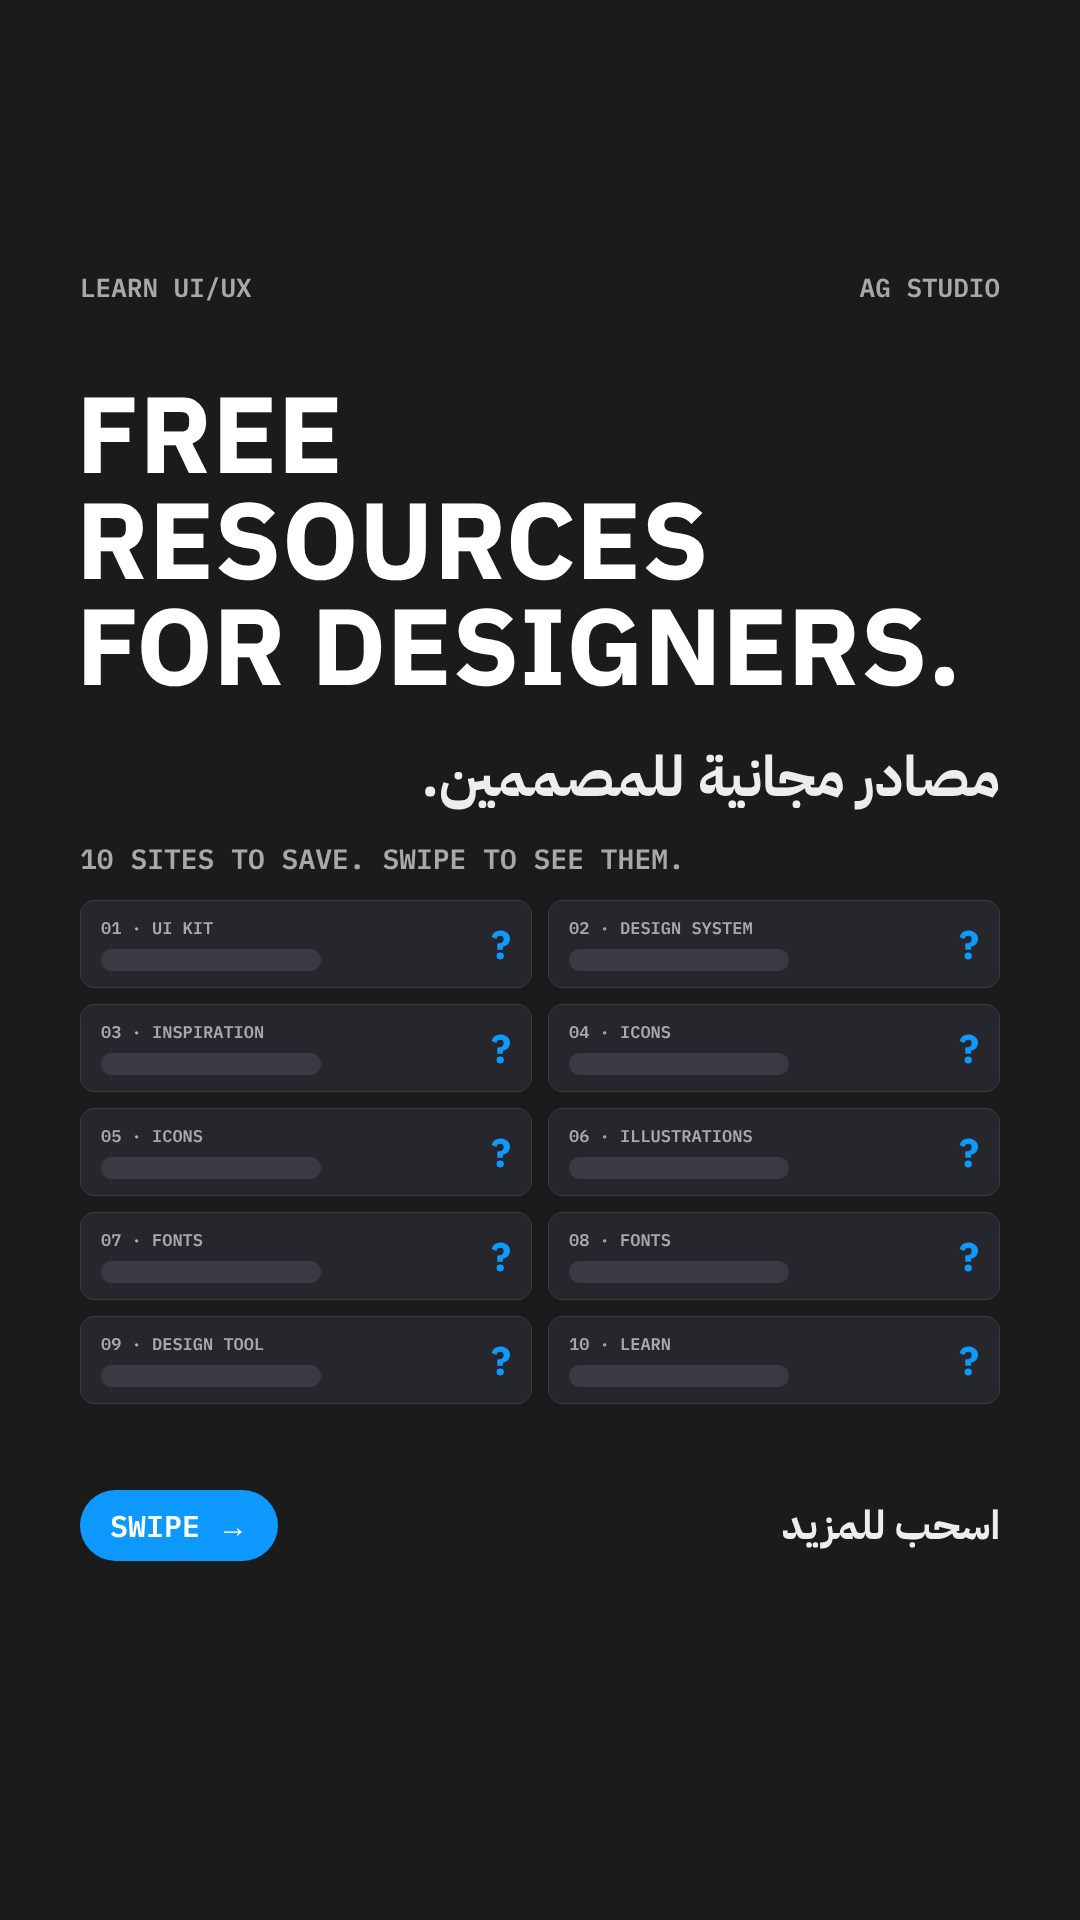
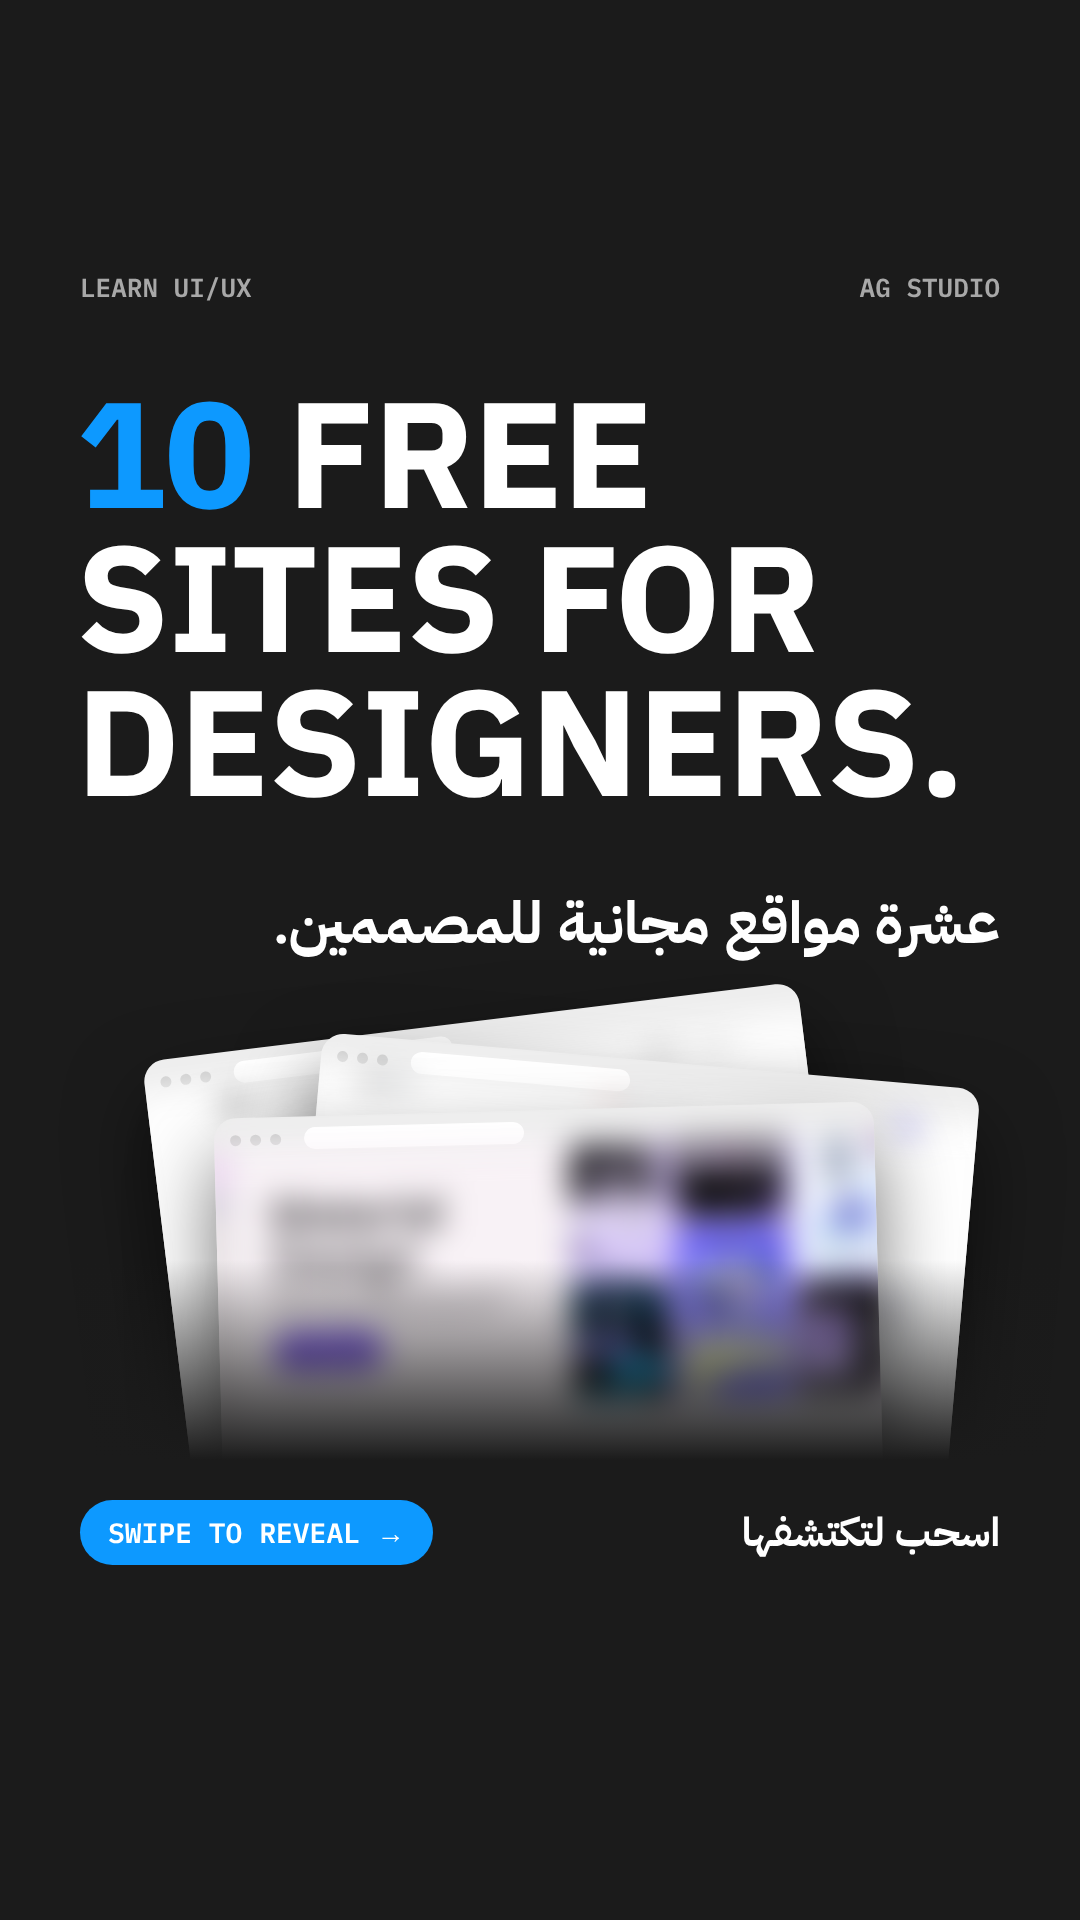
Free resources : couvertures teaser refaites (captures floutées en pile)
Claude-Session: https://claude.ai/code/session_01FBPTB3jeqhR1KyoC7UCUXC

Changed region(s): [[0.0611, 0.1875, 0.9167, 0.8125], [0.6722, 0.7812, 0.9167, 0.8125]]

diff --git a/carousels/resources/cover-carousel.html b/carousels/resources/cover-carousel.html
@@ -1,0 +1,22 @@
+<!doctype html><html><head><meta charset="utf-8"><style>
+@font-face{font-family:Plex;src:url(../../node_modules/@fontsource/ibm-plex-sans/files/ibm-plex-sans-latin-700-normal.woff2);font-weight:700}
+@font-face{font-family:Mono;src:url(../../node_modules/@fontsource/ibm-plex-mono/files/ibm-plex-mono-latin-600-normal.woff2);font-weight:600}
+@font-face{font-family:Ar;src:url(../../node_modules/@fontsource/ibm-plex-sans-arabic/files/ibm-plex-sans-arabic-arabic-700-normal.woff2);font-weight:700;unicode-range:U+0600-06FF,U+0750-077F,U+FB50-FDFF,U+FE70-FEFF,U+200C-200F}
+*{box-sizing:border-box;margin:0;padding:0} body{background:#000}
+.s{position:relative;overflow:hidden;background:#1B1B1B;font-family:Plex;color:#fff}
+.h{font-weight:700;line-height:.96;letter-spacing:-.01em}
+.ar{font-family:Ar;font-weight:700;direction:rtl}
+.mono{font:600 26px Mono;color:#A8A8A8}
+.win{position:absolute;background:#EDEDED;border-radius:22px;overflow:hidden;box-shadow:0 40px 80px rgba(0,0,0,.55)}
+.win .bar{height:44px;display:flex;align-items:center;gap:9px;padding:0 16px}
+.win .dot{width:11px;height:11px;border-radius:6px;background:#C9C9C9}
+.win .url{margin-left:14px;width:220px;height:22px;border-radius:11px;background:#fff}
+.win img{display:block;width:100%;filter:blur(15px) saturate(1.05);transform:scale(1.06)}
+.pill{display:inline-block;background:#0D99FF;color:#fff;font:600 28px Mono;padding:14px 28px;border-radius:40px}
+</style></head><body><div class="s" id="c" style="width:1080px;height:1920px">
+ <div class="mono" style="position:absolute;top:270px;left:80px">LEARN UI/UX</div><div class="mono" style="position:absolute;top:270px;right:80px">AG STUDIO</div>
+ <div class="h" style="position:absolute;top:380px;left:76px;font-size:150px"><span style="color:#0D99FF">10</span> FREE<br>SITES FOR<br>DESIGNERS.</div>
+ <div class="ar" style="position:absolute;top:880px;right:80px;font-size:58px">عشرة مواقع مجانية للمصممين.</div>
+ <div style="position:absolute;top:960px;left:0;width:1080px;height:500px;overflow:hidden"><div class="win" style="left:170px;top:60px;width:660px;transform:rotate(-7deg);z-index:1"><div class="bar"><span class="dot"></span><span class="dot"></span><span class="dot"></span><span class="url"></span></div><img src="../../resources-sites/shots/mobbin.jpg"></div><div class="win" style="left:300px;top:100px;width:660px;transform:rotate(5deg);z-index:2"><div class="bar"><span class="dot"></span><span class="dot"></span><span class="dot"></span><span class="url"></span></div><img src="../../resources-sites/shots/undraw.jpg"></div><div class="win" style="left:220px;top:150px;width:660px;transform:rotate(-1.5deg);z-index:3"><div class="bar"><span class="dot"></span><span class="dot"></span><span class="dot"></span><span class="url"></span></div><img src="../../resources-sites/shots/material.jpg"></div><div style="position:absolute;left:0;right:0;bottom:0;height:200px;background:linear-gradient(rgba(27,27,27,0),#1B1B1B);z-index:4"></div></div>
+ <div style="position:absolute;top:1500px;left:80px;right:80px;display:flex;justify-content:space-between;align-items:center;z-index:5"><span class="pill">SWIPE TO REVEAL →</span><span class="ar" style="font-size:40px">اسحب لتكتشفها</span></div>
+</div></body></html>

diff --git a/carousels/resources/cover-short.html b/carousels/resources/cover-short.html
@@ -1,0 +1,22 @@
+<!doctype html><html><head><meta charset="utf-8"><style>
+@font-face{font-family:Plex;src:url(../../node_modules/@fontsource/ibm-plex-sans/files/ibm-plex-sans-latin-700-normal.woff2);font-weight:700}
+@font-face{font-family:Mono;src:url(../../node_modules/@fontsource/ibm-plex-mono/files/ibm-plex-mono-latin-600-normal.woff2);font-weight:600}
+@font-face{font-family:Ar;src:url(../../node_modules/@fontsource/ibm-plex-sans-arabic/files/ibm-plex-sans-arabic-arabic-700-normal.woff2);font-weight:700;unicode-range:U+0600-06FF,U+0750-077F,U+FB50-FDFF,U+FE70-FEFF,U+200C-200F}
+*{box-sizing:border-box;margin:0;padding:0} body{background:#000}
+.s{position:relative;overflow:hidden;background:#1B1B1B;font-family:Plex;color:#fff}
+.h{font-weight:700;line-height:.96;letter-spacing:-.01em}
+.ar{font-family:Ar;font-weight:700;direction:rtl}
+.mono{font:600 26px Mono;color:#A8A8A8}
+.win{position:absolute;background:#EDEDED;border-radius:22px;overflow:hidden;box-shadow:0 40px 80px rgba(0,0,0,.55)}
+.win .bar{height:44px;display:flex;align-items:center;gap:9px;padding:0 16px}
+.win .dot{width:11px;height:11px;border-radius:6px;background:#C9C9C9}
+.win .url{margin-left:14px;width:220px;height:22px;border-radius:11px;background:#fff}
+.win img{display:block;width:100%;filter:blur(15px) saturate(1.05);transform:scale(1.06)}
+.pill{display:inline-block;background:#0D99FF;color:#fff;font:600 28px Mono;padding:14px 28px;border-radius:40px}
+</style></head><body><div class="s" id="c" style="width:1080px;height:1920px">
+ <div class="mono" style="position:absolute;top:270px;left:80px">LEARN UI/UX</div><div class="mono" style="position:absolute;top:270px;right:80px">AG STUDIO</div>
+ <div class="h" style="position:absolute;top:380px;left:76px;font-size:150px"><span style="color:#0D99FF">10</span> FREE<br>SITES FOR<br>DESIGNERS.</div>
+ <div class="ar" style="position:absolute;top:880px;right:80px;font-size:58px">عشرة مواقع مجانية للمصممين.</div>
+ <div style="position:absolute;top:960px;left:0;width:1080px;height:500px;overflow:hidden"><div class="win" style="left:170px;top:60px;width:660px;transform:rotate(-7deg);z-index:1"><div class="bar"><span class="dot"></span><span class="dot"></span><span class="dot"></span><span class="url"></span></div><img src="../../resources-sites/shots/mobbin.jpg"></div><div class="win" style="left:300px;top:100px;width:660px;transform:rotate(5deg);z-index:2"><div class="bar"><span class="dot"></span><span class="dot"></span><span class="dot"></span><span class="url"></span></div><img src="../../resources-sites/shots/undraw.jpg"></div><div class="win" style="left:220px;top:150px;width:660px;transform:rotate(-1.5deg);z-index:3"><div class="bar"><span class="dot"></span><span class="dot"></span><span class="dot"></span><span class="url"></span></div><img src="../../resources-sites/shots/material.jpg"></div><div style="position:absolute;left:0;right:0;bottom:0;height:200px;background:linear-gradient(rgba(27,27,27,0),#1B1B1B);z-index:4"></div></div>
+ 
+</div></body></html>

diff --git a/carousels/resources/cover-thumb.html b/carousels/resources/cover-thumb.html
@@ -1,0 +1,20 @@
+<!doctype html><html><head><meta charset="utf-8"><style>
+@font-face{font-family:Plex;src:url(../../node_modules/@fontsource/ibm-plex-sans/files/ibm-plex-sans-latin-700-normal.woff2);font-weight:700}
+@font-face{font-family:Mono;src:url(../../node_modules/@fontsource/ibm-plex-mono/files/ibm-plex-mono-latin-600-normal.woff2);font-weight:600}
+@font-face{font-family:Ar;src:url(../../node_modules/@fontsource/ibm-plex-sans-arabic/files/ibm-plex-sans-arabic-arabic-700-normal.woff2);font-weight:700;unicode-range:U+0600-06FF,U+0750-077F,U+FB50-FDFF,U+FE70-FEFF,U+200C-200F}
+*{box-sizing:border-box;margin:0;padding:0} body{background:#000}
+.s{position:relative;overflow:hidden;background:#1B1B1B;font-family:Plex;color:#fff}
+.h{font-weight:700;line-height:.96;letter-spacing:-.01em}
+.ar{font-family:Ar;font-weight:700;direction:rtl}
+.mono{font:600 26px Mono;color:#A8A8A8}
+.win{position:absolute;background:#EDEDED;border-radius:22px;overflow:hidden;box-shadow:0 40px 80px rgba(0,0,0,.55)}
+.win .bar{height:44px;display:flex;align-items:center;gap:9px;padding:0 16px}
+.win .dot{width:11px;height:11px;border-radius:6px;background:#C9C9C9}
+.win .url{margin-left:14px;width:220px;height:22px;border-radius:11px;background:#fff}
+.win img{display:block;width:100%;filter:blur(15px) saturate(1.05);transform:scale(1.06)}
+.pill{display:inline-block;background:#0D99FF;color:#fff;font:600 28px Mono;padding:14px 28px;border-radius:40px}
+</style></head><body><div class="s" id="c" style="width:1280px;height:720px">
+ <div class="h" style="position:absolute;top:150px;left:70px;font-size:100px;z-index:5"><span style="color:#0D99FF">18</span> FREE<br>SITES FOR<br>DESIGNERS.</div>
+ <div class="ar" style="position:absolute;top:500px;left:70px;width:620px;text-align:right;font-size:44px">مواقع مجانية للمصممين</div>
+ <div class="win" style="left:760px;top:110px;width:470px;transform:rotate(-7deg);z-index:1"><div class="bar"><span class="dot"></span><span class="dot"></span><span class="dot"></span><span class="url"></span></div><img src="../../resources-sites/shots/mobbin.jpg"></div><div class="win" style="left:840px;top:160px;width:470px;transform:rotate(5deg);z-index:2"><div class="bar"><span class="dot"></span><span class="dot"></span><span class="dot"></span><span class="url"></span></div><img src="../../resources-sites/shots/undraw.jpg"></div><div class="win" style="left:790px;top:220px;width:470px;transform:rotate(-1.5deg);z-index:3"><div class="bar"><span class="dot"></span><span class="dot"></span><span class="dot"></span><span class="url"></span></div><img src="../../resources-sites/shots/material.jpg"></div>
+</div></body></html>
